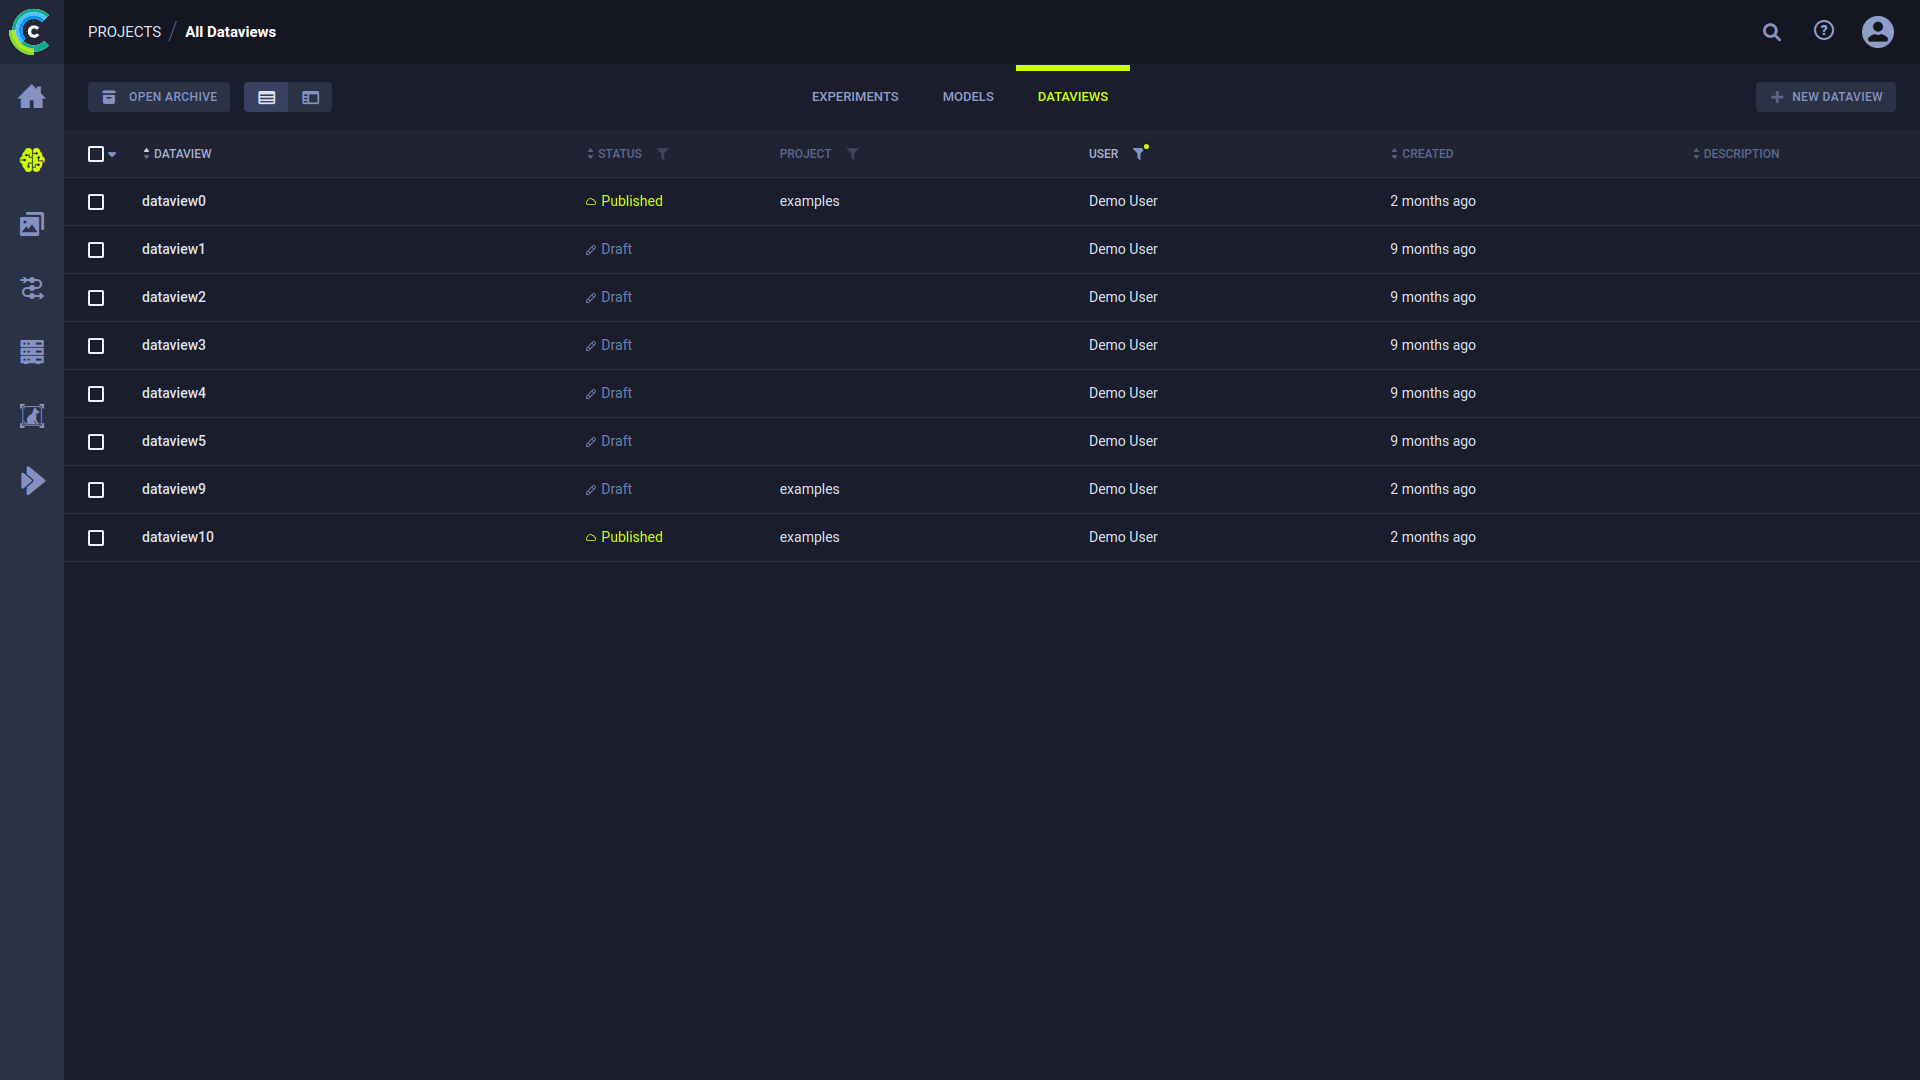
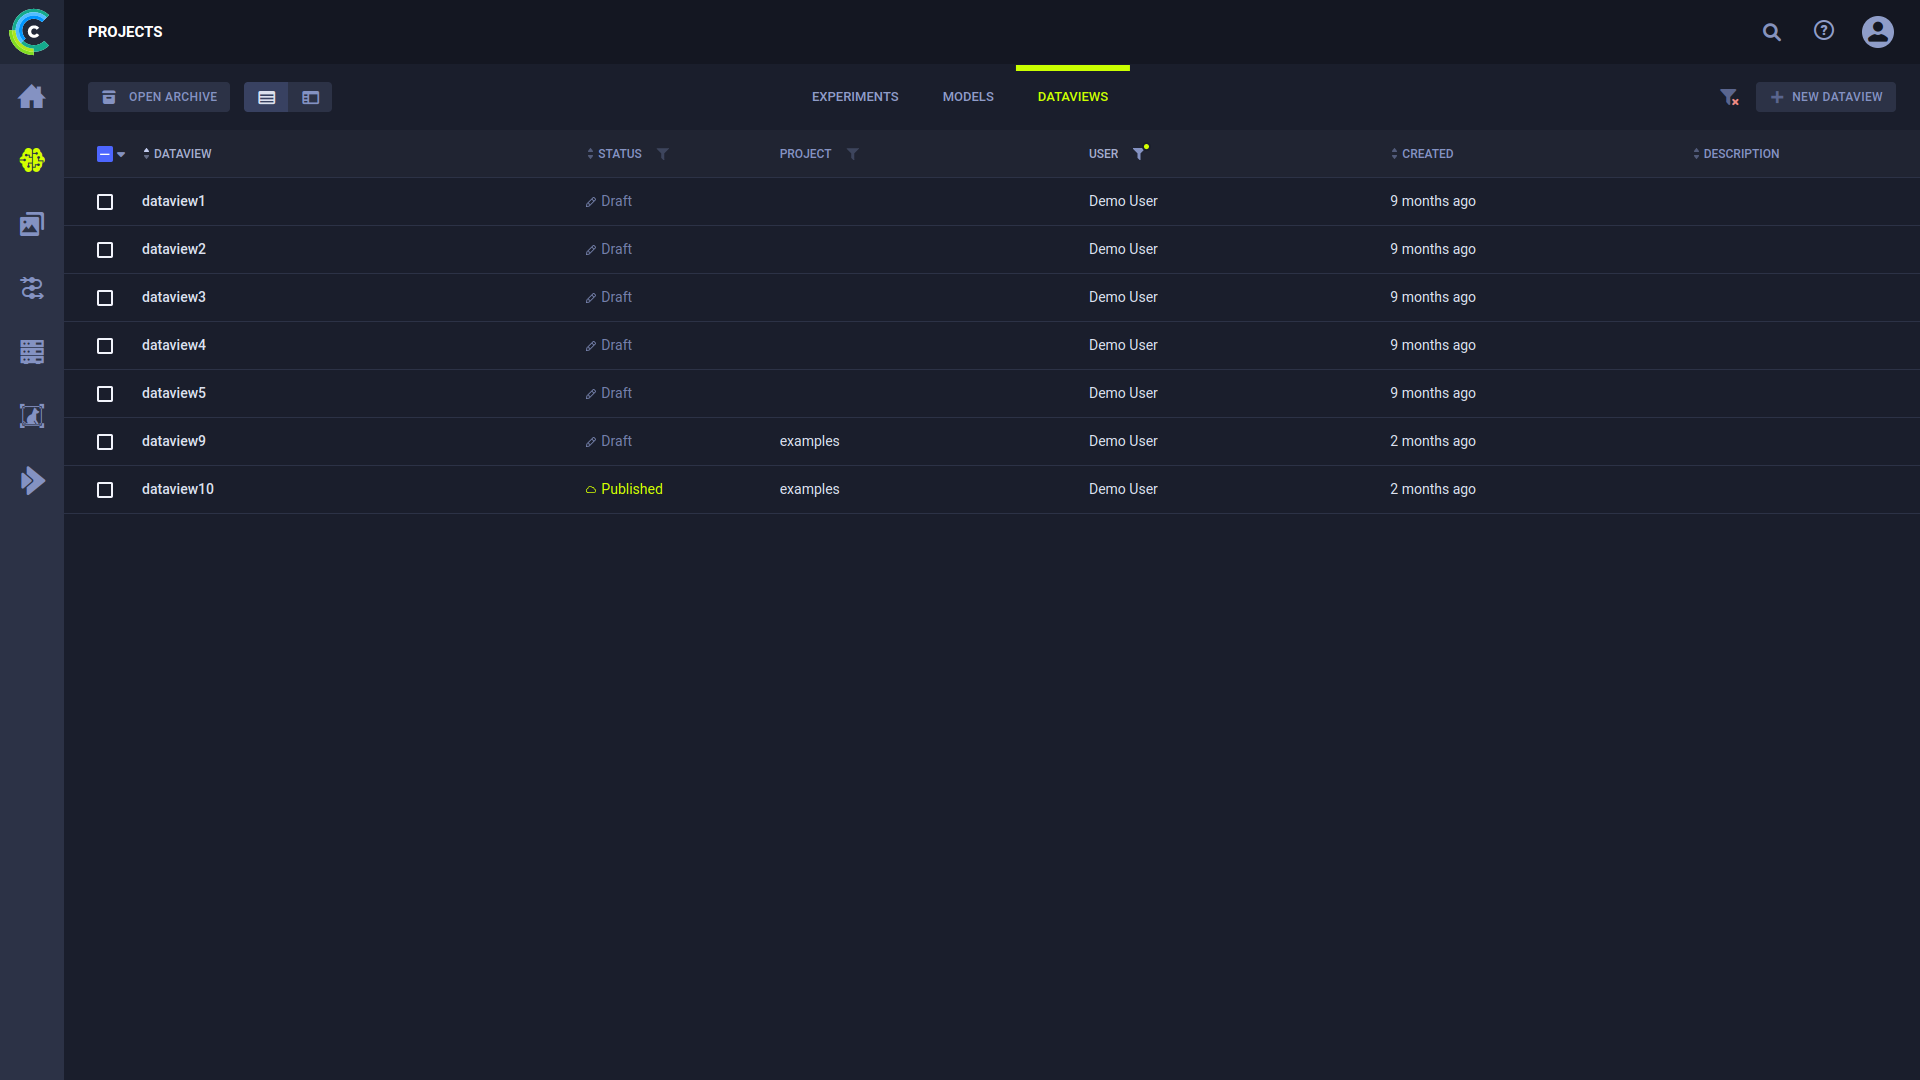
Clear all filters in dataviews table

diff --git a/docs/hyperdatasets/webapp/webapp_dataviews.md b/docs/hyperdatasets/webapp/webapp_dataviews.md
@@ -38,7 +38,10 @@ Customize the table using any of the following:
 
 * Dynamic column order - Drag a column title to a different position.
 * Resize columns - Drag the column separator to change the width of that column. Double click the column separator for automatic fit.
-* Filter by user and / or status
+* Filter by user and / or status - When a filter is applied to a column, its filter icon will appear with a highlighted 
+  dot on its top right (<img src="/docs/latest/icons/ico-filter-on.svg" alt="Filter on" className="icon size-md" /> ). To 
+  clear all active filters, click <img src="/docs/latest/icons/ico-filter-reset.svg" alt="Clear filters" className="icon size-md" />
+  in the top right corner of the table.
 * Sort columns - By experiment name and / or elapsed time since creation.
 
 :::note
